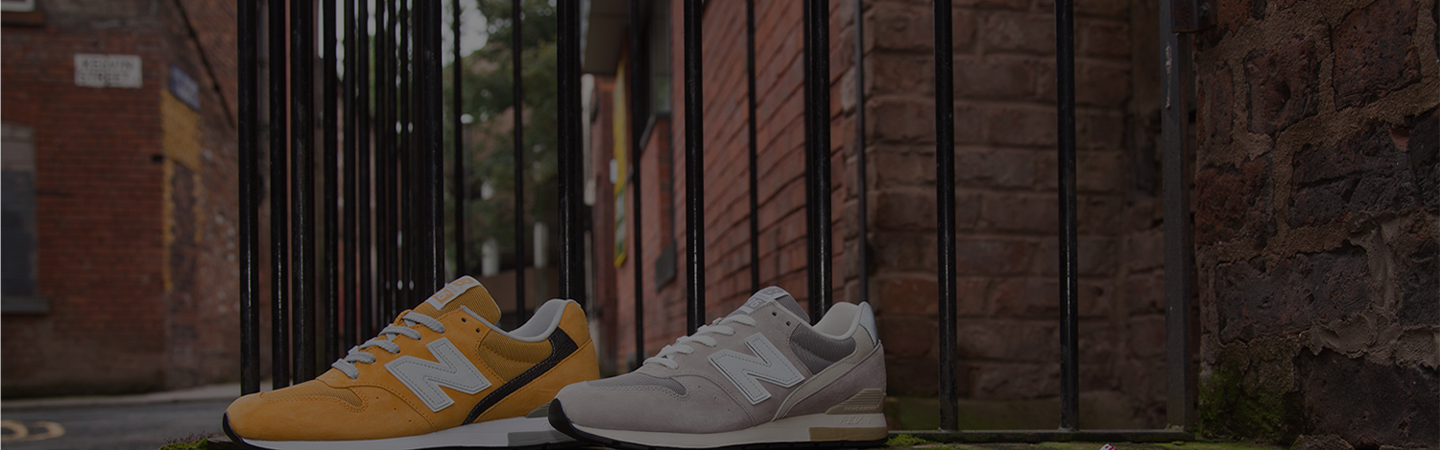
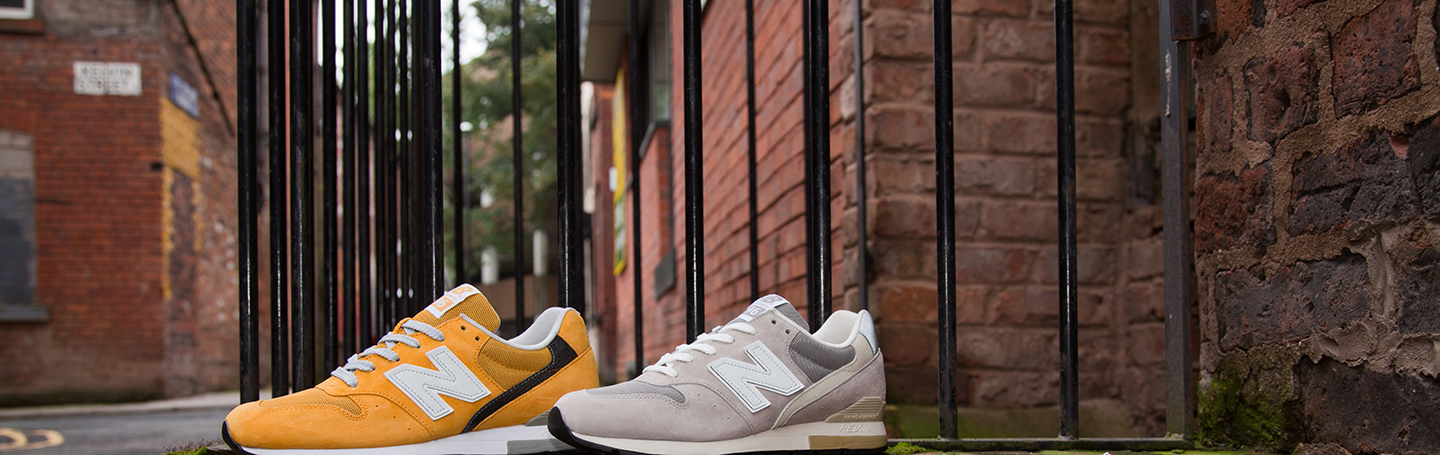
create slider using "tiny-slider"

diff --git a/YourBoots-Shop-App/src/app/components/slider/slider.component.html b/YourBoots-Shop-App/src/app/components/slider/slider.component.html
@@ -4,6 +4,7 @@
         <div class="slider__slids">
             <div class="slider__slide">
                 <div class="slider__bg">
+                    <div class="slider__bg-dark-box"></div>
                     <img src="../../../assets/imgs/slider/slide_1.png" alt="" class="slider__bg-img">
                 </div>
                 <div class="slider__content">
@@ -13,13 +14,14 @@
                     <h2 class="slider__text">
                         до
                         <span class="slider__text_eff">
-                            50%
+                            501%
                         </span>
                     </h2>
                 </div>
             </div>
             <div class="slider__slide">
                 <div class="slider__bg">
+                    <div class="slider__bg-dark-box"></div>
                     <img src="../../../assets/imgs/slider/slide_2.png" alt="" class="slider__bg-img">
                 </div>
                 <div class="slider__content">
@@ -29,13 +31,14 @@
                     <h2 class="slider__text">
                         до
                         <span class="slider__text_eff">
-                            50%
+                            502%
                         </span>
                     </h2>
                 </div>
             </div>
             <div class="slider__slide">
                 <div class="slider__bg">
+                    <div class="slider__bg-dark-box"></div>
                     <img src="../../../assets/imgs/slider/slide_3.png" alt="" class="slider__bg-img">
                 </div>
                 <div class="slider__content">
@@ -45,20 +48,28 @@
                     <h2 class="slider__text">
                         до
                         <span class="slider__text_eff">
-                            50%
+                            503%
                         </span>
                     </h2>
                 </div>
             </div>
         </div>
-        <!-- <div class="slider__nav-box"> -->
-        <div class="slider__nav-btn slider__nav-btn_left">
-            <i class="fas fa-chevron-left"></i>
+        <div class="slider__nav-box">
+            <div class="slider__nav-btn slider__nav-btn_left">
+                <i class="fas fa-chevron-left"></i>
+            </div>
+            <div class="slider__nav-btn slider__nav-btn_right">
+                <i class="fas fa-chevron-right"></i>
+            </div>
         </div>
-        <div class="slider__nav-btn slider__nav-btn_right">
-            <i class="fas fa-chevron-right"></i>
+        <div class="slider__nav-dots-box">
+            <div class="slider__nav-dot-el">
+            </div>
+            <div class="slider__nav-dot-el">
+            </div>
+            <div class="slider__nav-dot-el">
+            </div>
         </div>
-        <!-- </div> -->
     </div>
 </div>
 <!-- Slider: End -->

diff --git a/YourBoots-Shop-App/src/app/components/slider/slider.component.scss b/YourBoots-Shop-App/src/app/components/slider/slider.component.scss
@@ -13,7 +13,9 @@
     overflow: hidden;
   }
   &__slide {
+    position: relative;
     height: 100%;
+    height: 350px;
     width: 100%;
     display: flex;
     justify-content: center;
@@ -27,7 +29,18 @@
     height: 100%;
     width: 100%;
     pointer-events: none;
+    &-dark-box {
+      position: absolute;
+      z-index: 3;
+      top: 0;
+      left: 0;
+      width: 100%;
+      height: 100%;
+      background: $bg-black-transp;
+    }
     &-img {
+      position: relative;
+      z-index: 2;
       height: 100%;
       width: 100%;
       object-fit: cover;
@@ -35,8 +48,9 @@
   }
   &__content {
     position: relative;
-    z-index: 2;
+    z-index: 4;
     text-align: center;
+    pointer-events: none;
   }
   &__text {
     font-size: 44px;
@@ -51,8 +65,8 @@
   }
   &__nav-btn {
     position: absolute;
-    z-index: 3;
-    top: 0;
+    z-index: 4;
+    bottom: 0;
     height: 100%;
     width: 180px;
     display: flex;
@@ -66,6 +80,9 @@
       cursor: pointer;
       background: $bg-white-transp;
     }
+    &:focus {
+      outline: none;
+    }
 
     &_left {
       left: 0;
@@ -74,4 +91,31 @@
       right: 0;
     }
   }
+  &__nav-dots-box {
+    position: absolute;
+    width: 100%;
+    bottom: 15px;
+    display: flex;
+    justify-content: center;
+    pointer-events: none;
+  }
+  &__nav-dot-el {
+    margin: 0 4px;
+    height: 10px;
+    width: 10px;
+    background: $bg-white;
+    border-radius: 100%;
+    pointer-events: all;
+
+    &:hover {
+      cursor: pointer;
+    }
+    &:focus {
+      outline: none;
+    }
+  }
+}
+
+.tns-nav-active {
+  background: $gr-main;
 }

diff --git a/YourBoots-Shop-App/src/app/services/main-app/main-app.service.ts b/YourBoots-Shop-App/src/app/services/main-app/main-app.service.ts
@@ -1,14 +1,46 @@
 import { OnDestroy, OnInit } from '@angular/core';
 import { Injectable } from '@angular/core';
+import { tns } from 'tiny-slider/src/tiny-slider';
 
 @Injectable({
-  providedIn: 'root'
+	providedIn: 'root'
 })
-export class MainAppService implements OnInit, OnDestroy  {
+export class MainAppService implements OnInit, OnDestroy {
+	public mainSlider: any = null;
 
-  constructor() { }
+	// tslint:disable-next-line: no-empty
+	constructor() { }
 
-  public ngOnInit(): void {}
+	public initMainSlider(): void {
+		this.mainSlider = tns({
+			container: '.slider__slids',
+			controls: true,
+			controlsContainer: '.slider__nav-box',
+			navContainer: '.slider__nav-dots-box',
+			items: 1,
+			slideBy: 1,
+			autoplay: true,
+			animateNormal: 'tns-fadeIn',
+			autoplayButtonOutput: false,
+			nav: true,
+			mouseDrag: true,
+			swipeAngle: false,
+			speed: 1000,
+		});
 
-  public ngOnDestroy(): void {}
+		// delete some unused button
+		document.querySelectorAll('.tns-liveregion').forEach((item: any) => {
+			item.style.display = 'none';
+		});
+	}
+
+	public destroyMainSlider(): void {
+		this.mainSlider = null;
+	}
+
+	// tslint:disable-next-line: no-empty
+	public ngOnInit(): void { }
+
+	// tslint:disable-next-line: no-empty
+	public ngOnDestroy(): void { }
 }

diff --git a/YourBoots-Shop-App/src/app/components/slider/slider.component.ts b/YourBoots-Shop-App/src/app/components/slider/slider.component.ts
@@ -1,15 +1,21 @@
-import { Component, OnInit } from '@angular/core';
+import { Component, OnDestroy, OnInit } from '@angular/core';
+import { MainAppService } from 'src/app/services/main-app/main-app.service';
+// import { tns } from 'tiny-slider/src/tiny-slider';
 
 @Component({
-  selector: 'app-slider',
-  templateUrl: './slider.component.html',
-  styleUrls: ['./slider.component.scss']
+	selector: 'app-slider',
+	templateUrl: './slider.component.html',
+	styleUrls: ['./slider.component.scss']
 })
-export class SliderComponent implements OnInit {
+export class SliderComponent implements OnInit, OnDestroy {
 
-  constructor() { }
+	constructor(private _mainService: MainAppService) { }
 
-  ngOnInit(): void {
-  }
+	public ngOnInit(): void {
+		this._mainService.initMainSlider();
+	}
 
+	public ngOnDestroy(): void {
+		this._mainService.destroyMainSlider();
+	}
 }
